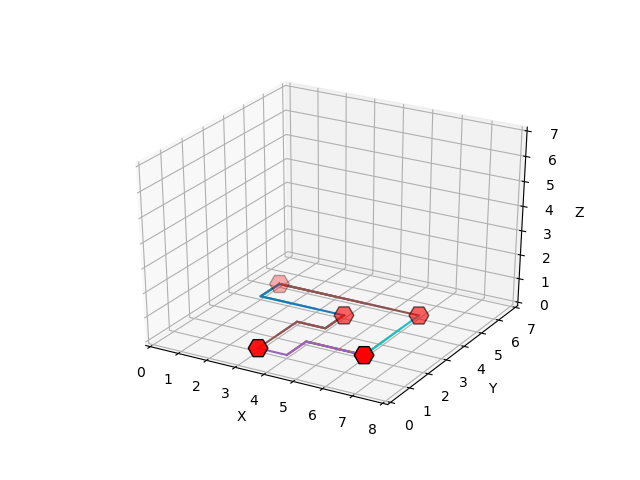
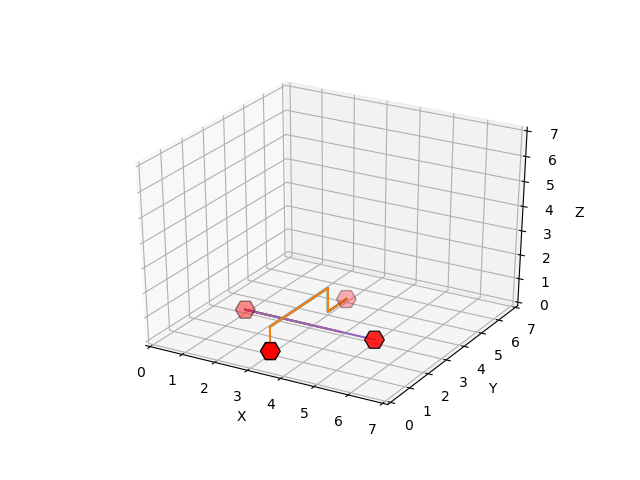
todo voor maandag

diff --git a/code/visualisation/matplot.py b/code/visualisation/matplot.py
@@ -26,12 +26,12 @@ def visualise(gates, output_dict, x, y):
 	for wires in output_dict.values():
 		line_x = []
 		line_y = []
-		# line_z = []
+		line_z = []
 		for cor in wires:
 			line_x.append(cor[0])
 			line_y.append(cor[1])
-			# line_z.append(cor[2])
-			plt.plot(line_x, line_y)
+			line_z.append(cor[2])
+			plt.plot(line_x, line_y, line_z)
 
 	# create scatterplot
 	cor_x = []

diff --git a/main.py b/main.py
@@ -27,7 +27,7 @@ if __name__ == '__main__':
 			req_chip = 'chip_2'
 			break
 		elif req_chip.lower() == 'test':
-			chip_path = 'data/test/print.csv'
+			chip_path = 'data/test/print_1.csv'
 			req_chip = 'test'
 			break
 		else:

diff --git a/PROCESS.md b/PROCESS.md
@@ -90,8 +90,9 @@ Vandaag
 todo:
   - andere algoritmes aanpassen naar 3D
   - hele figuur 3D?? werkt dat nu al?
-
-
+  - opslaan output waar? hoe? nu steeds dezelfde file
+  - opslaan afbeelding die gemaakt wordt? 
+  - lezen over DFS
 
 ### Vrijdag van Marte
 - Marte heeft weer Python
@@ -107,3 +108,5 @@ Stap 4 - optimaliseer
 https://www.geeksforgeeks.org/shortest-distance-two-cells-matrix-grid/
 
 [A* algorithm](https://gist.github.com/jamiees2/5531924)
+
+https://matplotlib.org/
